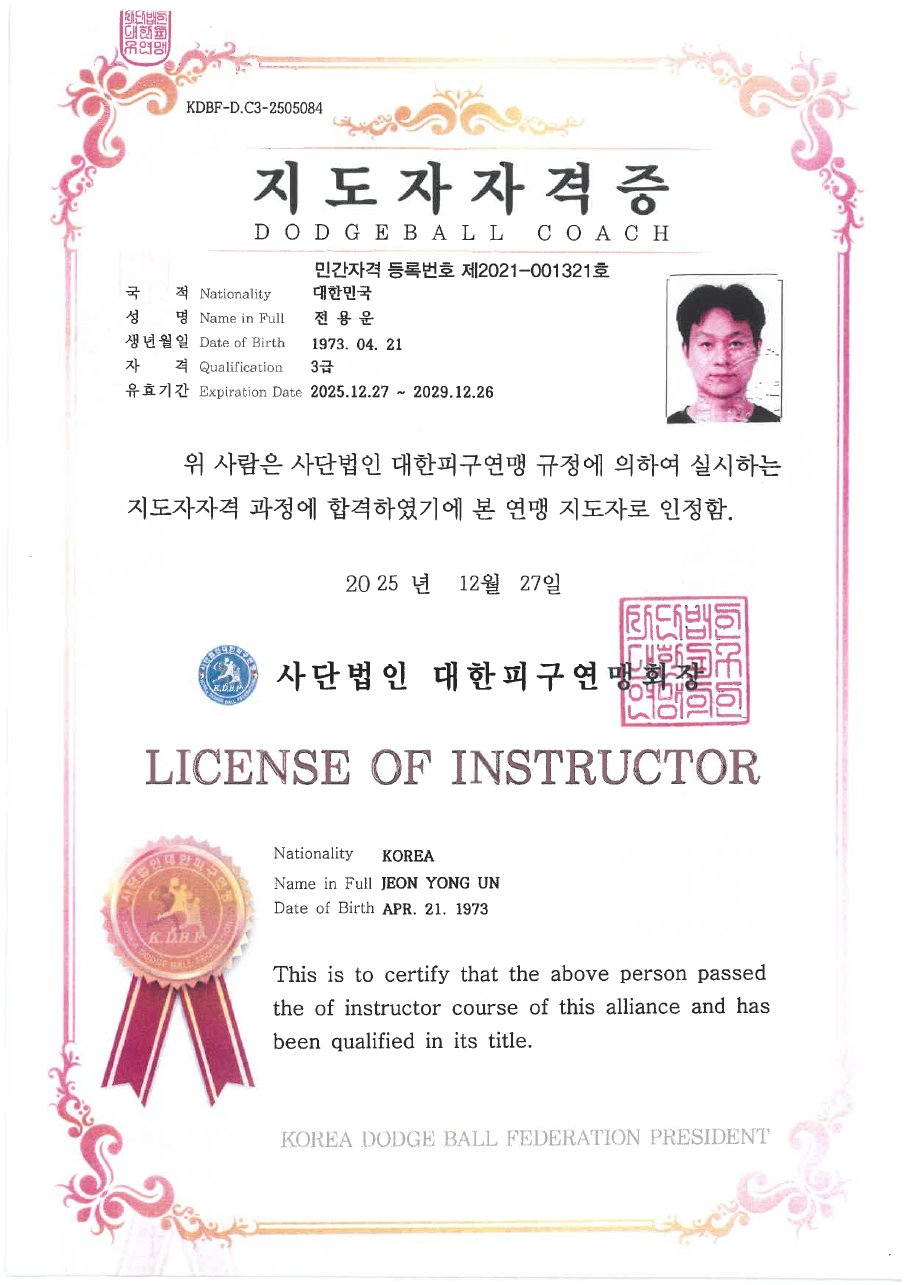
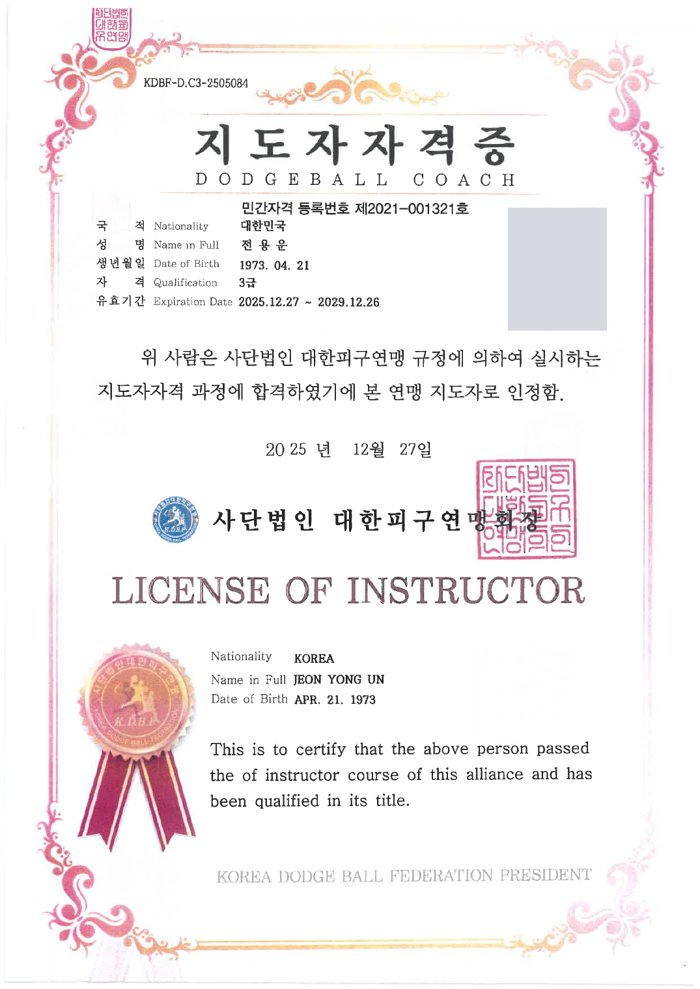
자격증에 사진부분 회색으로 처리

diff --git a/index.html b/index.html
@@ -297,7 +297,7 @@ footer .f-tel{color:var(--fg);font-weight:700;font-size:1.2rem}
 
   <section>
     <div class="photos">
-      <figure><img src="img/product/eyekey_case_jacket_paws_01.png" alt="그린과 블루 링의 EyeKey 프로토타입 두 개, 노란 눈과 하늘색 화면" width="662" height="316"><figcaption>EyeKey 프로토타입 두 개</figcaption></figure>
+      <figure><img src="img/product/pair.png" alt="그린과 블루 링의 EyeKey 프로토타입 두 개, 노란 눈과 하늘색 화면" width="319" height="149"><figcaption>EyeKey 프로토타입 두 개</figcaption></figure>
       <figure><img src="img/product/dark.jpg" alt="어두운 곳에서 빛나는 EyeKey 두 개" width="969" height="610"><figcaption>어두운 곳에서 더 또렷하게</figcaption></figure>
       <figure><img src="img/product/hand.jpg" alt="손에 든 블루 EyeKey 키링" width="284" height="556"><figcaption>손에 쏙 들어오는 크기</figcaption></figure>
     </div>
@@ -572,11 +572,11 @@ void app_main(void) {
     <div class="sec-head" style="margin-bottom:14px"><span class="eyebrow">Instructor</span><h2 style="font-size:1.35rem">교육을 맡는 지도 자격</h2></div>
     <div class="certs">
       <a class="cert big" href="img/certificate/coding-instructor-1.png" target="_blank" rel="noopener"><img src="img/certificate/coding-instructor-1.png" alt="코딩지도사 1급 자격증" width="907" height="772" loading="lazy">
-        <div class="cinfo"><span class="chip ok">1급</span><h3>코딩지도사 1급</h3><p>한국자격검정평가진흥원<br>발급 2026년 10월 15일</p><span class="more">원본 보기 →</span></div></a>
-      <a class="cert side" href="img/certificate/leader-certificate.pdf" target="_blank" rel="noopener"><img src="img/certificate/leader-thumb.jpg" alt="대한피구연맹 지도자 자격증" width="910" height="1286" loading="lazy">
-        <div class="cinfo"><span class="chip ok">3급</span><h3>피구 지도자</h3><p>사단법인 대한피구연맹<br>유효 2025.12.27 ~ 2029.12.26</p><span class="more">원본 PDF 보기 →</span></div></a>
-      <a class="cert side" href="img/certificate/referee-certificate.pdf" target="_blank" rel="noopener"><img src="img/certificate/referee-thumb.jpg" alt="대한피구연맹 심판 자격증" width="910" height="1286" loading="lazy">
-        <div class="cinfo"><span class="chip ok">3급</span><h3>피구 심판</h3><p>사단법인 대한피구연맹<br>유효 2025.12.27 ~ 2029.12.26</p><span class="more">원본 PDF 보기 →</span></div></a>
+        <div class="cinfo"><span class="chip ok">1급</span><h3>코딩지도사 1급</h3><p>한국자격검정평가진흥원<br>발급 2026년 10월 15일</p></div></a>
+      <a class="cert side" href="img/certificate/leader-certificate.jpg" target="_blank" rel="noopener"><img src="img/certificate/leader-thumb.jpg" alt="대한피구연맹 지도자 자격증" width="910" height="1286" loading="lazy">
+        <div class="cinfo"><span class="chip ok">3급</span><h3>피구 지도자</h3><p>사단법인 대한피구연맹<br>유효 2025.12.27 ~ 2029.12.26</p></div></a>
+      <a class="cert side" href="img/certificate/referee-certificate.jpg" target="_blank" rel="noopener"><img src="img/certificate/referee-thumb.jpg" alt="대한피구연맹 심판 자격증" width="910" height="1286" loading="lazy">
+        <div class="cinfo"><span class="chip ok">3급</span><h3>피구 심판</h3><p>사단법인 대한피구연맹<br>유효 2025.12.27 ~ 2029.12.26</p></div></a>
     </div>
   </section>
 </div>
